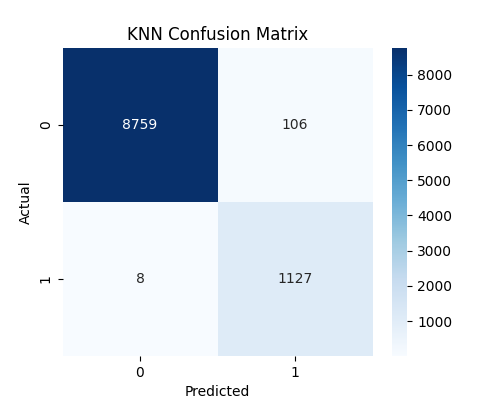
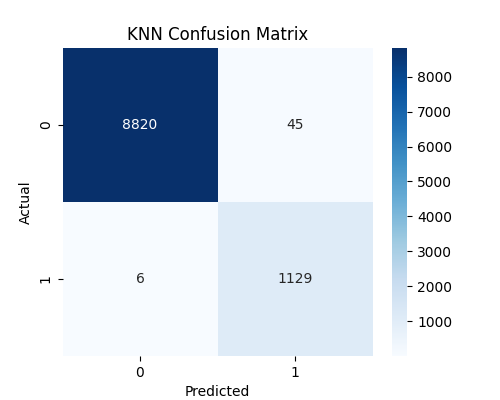
Updated KNN notebook+model full data (fixed speed + final results)

diff --git a/models/knn.py b/models/knn.py
@@ -12,20 +12,17 @@ class KNNClassifier:
         self.X_train = X
         self.y_train = y
 
-    def euclidean_distance(self, x1, x2):
-        return np.sqrt(np.sum((x1 - x2) ** 2))
-
     def predict_one(self, x):
-        distances = []
+        # Compute distances from x to all training samples at once
+        distances = np.sqrt(np.sum((self.X_train - x) ** 2, axis=1))
 
-        for i in range(len(self.X_train)):
-            dist = self.euclidean_distance(x, self.X_train[i])
-            distances.append((dist, self.y_train[i]))
+        # Get indices of the k nearest neighbors without sorting all distances
+        k_indices = np.argpartition(distances, self.k)[:self.k]
 
-        distances.sort(key=lambda item: item[0])
+        # Get labels of the nearest neighbors
+        k_nearest_labels = self.y_train[k_indices]
 
-        k_nearest_labels = [label for _, label in distances[:self.k]]
-
+        # Majority vote
         most_common = Counter(k_nearest_labels).most_common(1)
         return most_common[0][0]
 
